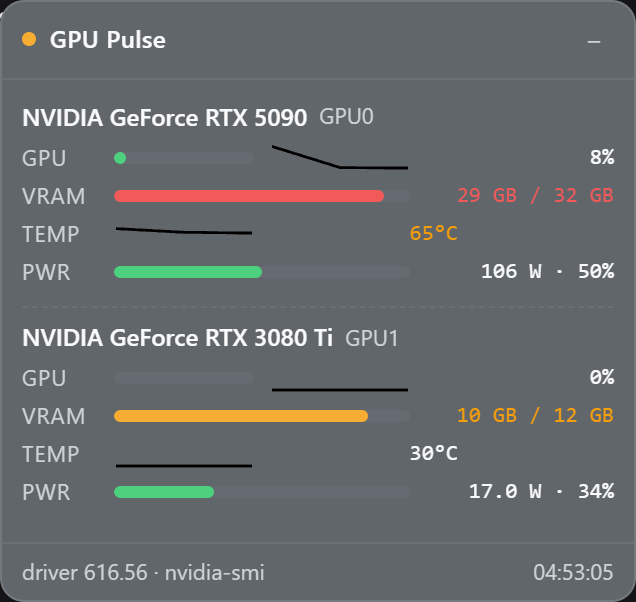
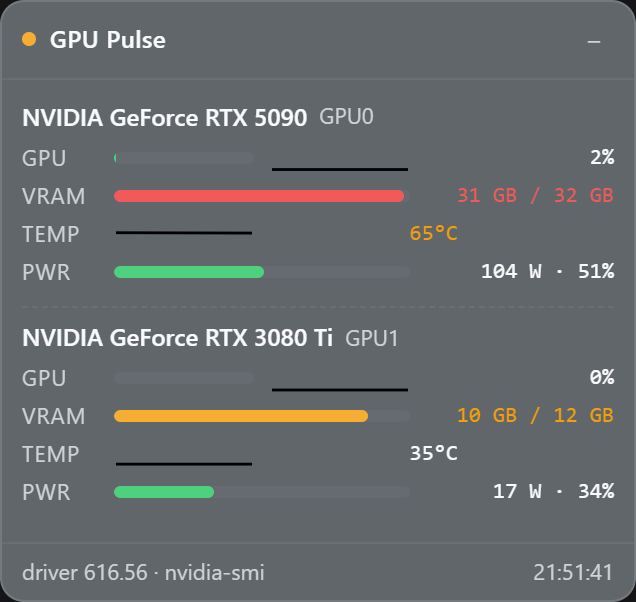
fix: stay above side cards; collapsed chip with exact names and power (1.0.1)

diff --git a/client/client.js b/client/client.js
@@ -8,11 +8,15 @@
  * `react` — so there are no externals to keep in sync with the host build.
  *
  * UI: a floating card in the `shell.overlay` slot (bottom-right of the DSH
- * Web UI) polling GET /dsh-gpu-pulse/status (host half). Renders per-GPU
+ * Web UI) polling GET /dsh-gpu-pulse/status (host half). Renders every
+ * discrete GPU (integrated GPUs are not exposed by nvidia-smi) as
  * utilization / VRAM / temperature / power + fan rows with sparklines, a
  * top-process list when the host collected compute apps, and a collapsed
- * pill mode persisted in localStorage. Colors follow the active theme via
- * --dsw-* token variables (static fallbacks keep older hosts readable).
+ * chip mode persisted in localStorage that keeps one row per GPU with the
+ * exact GPU name and power draw. At runtime the widget promotes the
+ * overlay layer's z-index so side-card plugins (dsh-better-sidebar) cannot
+ * cover it. Colors follow the active theme via --dsw-* token variables
+ * (static fallbacks keep older hosts readable).
  */
 window.__ModuleLoader__.load({
   id: "dsh-gpu-pulse",
@@ -40,7 +44,7 @@ window.__ModuleLoader__.load({
       const gb = mib / 1024;
       return (gb >= 10 ? gb.toFixed(0) : gb.toFixed(1)) + " GB";
     };
-    const fmtW = (w) => (w == null ? "—" : (w >= 100 ? w.toFixed(0) : w.toFixed(1)) + " W");
+    const fmtW = (w) => (w == null ? "—" : w >= 1000 ? (w / 1000).toFixed(2) + " kW" : Math.round(w) + " W");
     const fmtPct = (p) => (p == null ? "—" : Math.round(p) + "%");
 
     const toneVar = (tone) =>
@@ -85,7 +89,15 @@ window.__ModuleLoader__.load({
       "." + NS + "-foot{display:flex;justify-content:space-between;gap:8px;padding:6px 10px;border-top:1px solid var(--dsw-alias-border-l1,rgba(127,130,135,.18));font-size:11px;color:var(--dsw-alias-label-secondary,#545557)}",
       "." + NS + "-pill{display:inline-flex;align-items:center;gap:8px;padding:6px 12px;border-radius:999px;background:var(--dsw-alias-bg-overlay,#ffffff);border:1px solid var(--dsw-alias-border-l2,#dcdcdc);box-shadow:var(--dsw-shadow-lv2,0 8px 24px rgba(15,15,15,.14));font-size:12px;cursor:pointer}",
       "." + NS + "-pill:hover{border-color:var(--dsw-alias-brand-primary,#4176e6)}",
-      "." + NS + "-pillsub{font-size:11px;color:var(--dsw-alias-label-secondary,#545557);max-width:340px;overflow:hidden;text-overflow:ellipsis;white-space:nowrap}"
+      "." + NS + "-pillsub{font-size:11px;color:var(--dsw-alias-label-secondary,#545557);max-width:340px;overflow:hidden;text-overflow:ellipsis;white-space:nowrap}",
+      "." + NS + "-chip{width:340px;background:var(--dsw-alias-bg-overlay,#ffffff);border:1px solid var(--dsw-alias-border-l2,#dcdcdc);border-radius:12px;box-shadow:var(--dsw-shadow-lv2,0 8px 24px rgba(15,15,15,.14));padding:7px 10px;cursor:pointer}",
+      "." + NS + "-chip:hover{border-color:var(--dsw-alias-brand-primary,#4176e6)}",
+      "." + NS + "-chiphead{display:flex;align-items:center;gap:7px;margin-bottom:4px}",
+      "." + NS + "-chiptitle{flex:1;font-size:11px;font-weight:600;letter-spacing:.02em}",
+      "." + NS + "-chipsub{font-size:11px;color:var(--dsw-alias-label-secondary,#545557)}",
+      "." + NS + "-chiprow{display:flex;align-items:center;gap:8px;margin:2px 0;font-size:11px}",
+      "." + NS + "-chipname{flex:none;max-width:168px;overflow:hidden;text-overflow:ellipsis;white-space:nowrap;font-weight:600}",
+      "." + NS + "-chipstats{margin-left:auto;color:var(--dsw-alias-label-secondary,#545557);font-family:var(--ds-font-family-code,ui-monospace,monospace)}"
     ].join("\n");
 
     // ---- small components -----------------------------------------------
@@ -177,6 +189,28 @@ window.__ModuleLoader__.load({
       const historyRef = useRef({});
       const pollMsRef = useRef(2000);
       const inFlight = useRef(false);
+      const rootRef = useRef(null);
+
+      // Stacking fix: the host app stacks the shell.overlay layer at z-index 20,
+      // while side-panel plugins (dsh-better-sidebar: panel host z 25, panel
+      // z 40, floating window z 42) paint above it, so an opened side card
+      // covers the widget. Walk up from the widget root to the overlay layer
+      // (the nearest absolute, pointer-events:none ancestor) and promote it to
+      // the app's top-of-stack value so the widget stays visible over side
+      // cards. The layer keeps pointer-events:none, so nothing else is blocked.
+      useEffect(() => {
+        const el0 = rootRef.current;
+        if (!el0 || typeof document === "undefined") return;
+        let el = el0;
+        while (el && el !== document.body) {
+          const s = getComputedStyle(el);
+          if (s.position === "absolute" && s.pointerEvents === "none") {
+            if (parseInt(s.zIndex, 10) < 2147483000) el.style.zIndex = "2147483000";
+            return;
+          }
+          el = el.parentElement;
+        }
+      });
 
       useEffect(() => {
         try { localStorage.setItem(COLLAPSE_KEY, collapsed ? "1" : "0"); } catch (e) { /* private mode */ }
@@ -219,14 +253,14 @@ window.__ModuleLoader__.load({
 
       // Loading / driver-missing: a quiet pill, not a card.
       if (data == null) {
-        return h("div", { className: NS },
-          h("div", { className: NS + "-pill", title: "GPU Pulse — waiting for the first sample" },
+        return h("div", { className: NS, ref: rootRef },
+          h("div", { className: NS + "-pill", title: "GPU Pulse, waiting for the first sample" },
             h("span", { className: NS + "-dot " + NS + "-dot-off" }),
             h("span", null, "GPU"),
             h("span", { className: NS + "-pillsub" }, "…")));
       }
       if (!data.ok) {
-        return h("div", { className: NS },
+        return h("div", { className: NS, ref: rootRef },
           h("div", { className: NS + "-pill", title: data.reason || "GPU telemetry unavailable" },
             h("span", { className: NS + "-dot " + NS + "-dot-off" }),
             h("span", null, "GPU"),
@@ -240,15 +274,25 @@ window.__ModuleLoader__.load({
             : "ok";
 
       if (collapsed) {
-        const maxUtil = gpus.reduce((m, g) => Math.max(m, g.util ?? 0), 0);
-        const maxTemp = gpus.reduce((m, g) => Math.max(m, g.temp ?? 0), 0);
-        return h("div", { className: NS },
-          h("div", { className: NS + "-pill", title: "GPU Pulse — click to expand", onClick: () => setCollapsed(false) },
-            h("span", { className: NS + "-dot " + NS + "-dot-" + worst }),
-            h("span", null, "GPU"),
-            h("span", { className: NS + "-pillsub" },
-              gpus.length === 0 ? "no GPUs" :
-                Math.round(maxUtil) + "% · " + (maxTemp === 0 ? "—" : Math.round(maxTemp) + "°C"))));
+        // Collapsed chip: one row per GPU with the exact GPU name and the
+        // power draw, so every GPU's state is visible without expanding.
+        return h("div", { className: NS, ref: rootRef },
+          h("div", { className: NS + "-chip", title: "GPU Pulse, click to expand", onClick: () => setCollapsed(false) },
+            h("div", { className: NS + "-chiphead" },
+              h("span", { className: NS + "-dot " + NS + "-dot-" + worst }),
+              h("span", { className: NS + "-chiptitle" }, "GPU Pulse"),
+              h("span", { className: NS + "-chipsub" }, gpus.length + " GPU" + (gpus.length === 1 ? "" : "s"))
+            ),
+            gpus.length === 0
+              ? h("div", { className: NS + "-chiprow" },
+                h("span", { className: NS + "-chipname" }, "no GPUs reported"))
+              : gpus.map((g) =>
+                  h("div", { key: g.index != null ? g.index : g.name, className: NS + "-chiprow" },
+                    h("span", { className: NS + "-chipname", title: g.name }, g.name),
+                    h("span", { className: NS + "-chipstats" },
+                      fmtPct(g.util) + " · " + (g.temp == null ? "—" : Math.round(g.temp) + "°C") + " · " + fmtW(g.powerW)))
+                )
+          ));
       }
 
       const gpusEl = gpus.length === 0
@@ -268,7 +312,7 @@ window.__ModuleLoader__.load({
         );
       }
 
-      return h("div", { className: NS },
+      return h("div", { className: NS, ref: rootRef },
         h("div", { className: NS + "-card" },
           h("div", { className: NS + "-head" },
             h("span", { className: NS + "-dot " + NS + "-dot-" + worst }),

diff --git a/README.md b/README.md
@@ -2,13 +2,19 @@
 
 A floating GPU monitor inside the DSH Web UI. Live per-GPU **utilization, VRAM, temperature, power and fan**, plus the top VRAM-consuming processes when the driver reports them, rendered as a compact card in the corner of the DeepSeek Harness page.
 
-Works on any machine with an NVIDIA driver (Windows or Linux): the data comes from `nvidia-smi`, so multi-GPU rigs show one instrument block per GPU. No extra service to run and no agent tools to call: the card polls the DSH host's own route.
+Works on any machine with an NVIDIA driver (Windows or Linux): the data comes from `nvidia-smi`, so multi-GPU rigs show one instrument block per GPU. `nvidia-smi` only reports discrete NVIDIA adapters, so integrated GPUs (Intel UHD, AMD iGPU, ...) are never part of the display. No extra service to run and no agent tools to call: the card polls the DSH host's own route.
 
 **Note:** the plugin is NVIDIA-only (nvidia-smi backend). On machines without an NVIDIA driver it degrades to a small `GPU n/a` pill and re-probes every 5 minutes, so it lights up on its own once a driver is installed.
 
 ## Screenshot
 
 ![dsh-gpu-pulse card in the DSH Web UI, showing two NVIDIA GPUs](docs/screenshot.png)
+
+The card stays on top of side panels and side cards (for example the `dsh-better-sidebar` Files panel) instead of being covered by them.
+
+The minus button in the header collapses the card to a compact chip with one row per GPU, showing the exact GPU name, utilization, temperature and power draw, without expanding:
+
+![dsh-gpu-pulse collapsed chip with one row per GPU](docs/screenshot-chip.png)
 
 ## Install
 
@@ -22,7 +28,7 @@ dsh plugin --profile web add /path/to/dsh-gpu-pulse
 
 The npm name `dsh-gpu-pulse` is reserved: `dsh plugin --profile web add dsh-gpu-pulse` will work once the npm package is published.
 
-Then restart `dsh web`. The card appears at the bottom-right corner of the GUI; the minus button in the header collapses it to a one-line pill (`GPU 42% · 67°C`), and the collapsed state persists.
+Then restart `dsh web`. The card appears at the bottom-right corner of the GUI; the minus button in the header collapses it to a compact chip (one row per GPU with name, utilization, temperature and power draw), and the collapsed state persists.
 
 ## What you see
 
@@ -33,7 +39,7 @@ Then restart `dsh web`. The card appears at the bottom-right corner of the GUI; 
 - **TOP PROCESSES**: the biggest VRAM consumers, when the driver attributes memory per process (most recent Windows drivers report `[N/A]` for graphics contexts, in which case this section is omitted)
 - footer: driver (KMD) version + timestamp of the last sample
 
-One block per GPU; the header dot turns amber or red when any GPU crosses its thresholds.
+One block per GPU; the header dot turns amber or red when any GPU crosses its thresholds. The exact GPU name (as reported by the driver) is shown in every block and in the collapsed chip.
 
 ## Configuration
 
@@ -52,7 +58,7 @@ Everything is optional: defaults work out of the box. Override in the profile's 
 ## How it works
 
 - **Host** (`index.js`): registers `GET /dsh-gpu-pulse/status` on the DSH host web server. Each request runs up to four `nvidia-smi` queries (`--query-gpu` metrics, `--query-gpu=index,name`, `--version`, and optionally `--query-compute-apps`) with a 4 s timeout, parses the CSV, and returns JSON. Results are cached for ~1.2 s so several open tabs share one process per poll cycle.
-- **Client** (`client/client.js`): a hand-written `__ModuleLoader__` bundle (no build step, the only require is the platform `react` seed) that mounts the widget into the `shell.overlay` slot. It polls the status route, keeps a short history for the sparklines, and styles itself with the active theme's `--dsw-*` token variables (static fallbacks keep older hosts readable).
+- **Client** (`client/client.js`): a hand-written `__ModuleLoader__` bundle (no build step, the only require is the platform `react` seed) that mounts the widget into the `shell.overlay` slot. It polls the status route, keeps a short history for the sparklines, and styles itself with the active theme's `--dsw-*` token variables (static fallbacks keep older hosts readable). Because side-panel plugins stack above the overlay slot's default z-index, the client promotes the overlay layer to the top of the app's stack at runtime, so side cards and drawers can never cover the widget.
 
 ## Requirements
 

diff --git a/README.zh.md b/README.zh.md
@@ -2,13 +2,19 @@
 
 DSH Web 界面内置的悬浮 GPU 监控。实时显示每张 GPU 的**利用率、显存、温度、功耗与风扇转速**，当驱动支持按进程归因显存时还会列出占用最高的进程，以紧凑卡片形式渲染在 DeepSeek Harness 页面角落。
 
-适用于任何装有 NVIDIA 驱动的机器（Windows 或 Linux）：数据来自 `nvidia-smi`，多 GPU 平台会为每张 GPU 显示一块独立的仪表区。无需额外常驻服务，也无需调用 agent 工具：卡片直接轮询 DSH 宿主自带的接口。
+适用于任何装有 NVIDIA 驱动的机器（Windows 或 Linux）：数据来自 `nvidia-smi`，多 GPU 平台会为每张 GPU 显示一块独立的仪表区。`nvidia-smi` 只上报独立的 NVIDIA 显卡，因此核显（Intel UHD、AMD iGPU 等）不会出现在显示中。无需额外常驻服务，也无需调用 agent 工具：卡片直接轮询 DSH 宿主自带的接口。
 
 **注意：** 本插件仅支持 NVIDIA（nvidia-smi 后端）。没有 NVIDIA 驱动的机器会退化为一个小 `GPU n/a` 胶囊，并每 5 分钟重新探测，驱动装好后它会自动亮起来。
 
 ## 截图
 
 ![DSH Web UI 中的 dsh-gpu-pulse 卡片，显示两块 NVIDIA GPU](docs/screenshot.png)
+
+侧边面板或侧边卡片打开时（例如 `dsh-better-sidebar` 的 Files 面板），卡片会保持在最上层，不会被遮挡。
+
+点头部减号按钮可将卡片折叠为紧凑的芯片，每张 GPU 一行：精确的 GPU 名称、利用率、温度与功耗，无需展开即可看到：
+
+![dsh-gpu-pulse 折叠芯片，每张 GPU 一行](docs/screenshot-chip.png)
 
 ## 安装
 
@@ -22,7 +28,7 @@ dsh plugin --profile web add /path/to/dsh-gpu-pulse
 
 npm 包名 `dsh-gpu-pulse` 已预留：npm 包发布后 `dsh plugin --profile web add dsh-gpu-pulse` 即可用。
 
-然后重启 `dsh web`。卡片出现在 GUI 右下角；点头部减号按钮可将其折叠为一行胶囊（`GPU 42% · 67°C`），折叠状态会被记住。
+然后重启 `dsh web`。卡片出现在 GUI 右下角；点头部减号按钮可将其折叠为紧凑芯片（每张 GPU 一行：名称、利用率、温度、功耗），折叠状态会被记住。
 
 ## 界面内容
 
@@ -33,7 +39,7 @@ npm 包名 `dsh-gpu-pulse` 已预留：npm 包发布后 `dsh plugin --profile we
 - **TOP PROCESSES**：显存占用最高的进程；多数新版 Windows 驱动对图形上下文返回 `[N/A]`，此时该区块自动省略
 - 页脚：驱动（KMD）版本 + 最近一次采样的时间戳
 
-每张 GPU 一块；任一 GPU 越过阈值时，头部指示灯变琥珀或红色。
+每张 GPU 一块；任一 GPU 越过阈值时，头部指示灯变琥珀或红色。每块仪表区与折叠芯片都显示驱动报告的精确 GPU 名称。
 
 ## 配置
 
@@ -52,7 +58,7 @@ npm 包名 `dsh-gpu-pulse` 已预留：npm 包发布后 `dsh plugin --profile we
 ## 工作原理
 
 - **宿主端**（`index.js`）：在 DSH 宿主 web server 上注册 `GET /dsh-gpu-pulse/status`。每次请求最多并行执行四条 `nvidia-smi` 查询（`--query-gpu` 指标、`--query-gpu=index,name`、`--version`，以及可选的 `--query-compute-apps`），超时 4 秒，解析 CSV 后返回 JSON。结果缓存约 1.2 秒，多个标签页的并发轮询共享同一进程。
-- **客户端**（`client/client.js`）：手写的 `__ModuleLoader__` 插件包（无构建步骤，唯一的 require 是平台内置的 `react` 种子模块），把组件挂到 `shell.overlay` 槽。它轮询状态接口、保留短历史供走势图使用，并使用当前主题的 `--dsw-*` token 变量着色（带静态回退值，旧宿主也能正常显示）。
+- **客户端**（`client/client.js`）：手写的 `__ModuleLoader__` 插件包（无构建步骤，唯一的 require 是平台内置的 `react` 种子模块），把组件挂到 `shell.overlay` 槽。它轮询状态接口、保留短历史供走势图使用，并使用当前主题的 `--dsw-*` token 变量着色（带静态回退值，旧宿主也能正常显示）。由于侧边面板类插件的层级高于 overlay 槽的默认层级，客户端在运行时把 overlay 层提升到应用最高层级，保证侧边卡片打开时组件仍然可见。
 
 ## 要求
 

diff --git a/CHANGELOG.md b/CHANGELOG.md
@@ -3,6 +3,17 @@
 All notable changes to `dsh-gpu-pulse` are documented here.
 The format is based on [Keep a Changelog](https://keepachangelog.com/), and this project aims to follow [Semantic Versioning](https://semver.org/).
 
+## [1.0.1] - 2026-08-31
+
+### Fixed
+- The widget no longer disappears when a side panel or side card is opened (for example the `dsh-better-sidebar` Files panel): the client promotes the `shell.overlay` layer to the top of the app's z-stack at runtime, so side cards can never cover it.
+- The collapsed state is now a compact chip with one row per GPU, showing the exact GPU name, utilization, temperature and power draw. Previously it was a single line with the maximum values and no power, so expanding was required to see the rest.
+- Power draw is now visible without expanding the card.
+- Watts below 1 kW are formatted as whole numbers (`86 W` instead of `86.0 W`).
+
+### Changed
+- Documented that the display covers every discrete GPU: `nvidia-smi` only reports discrete NVIDIA adapters, so integrated GPUs are never part of the display.
+
 ## [1.0.0] - 2026-08-30
 
 ### Added
